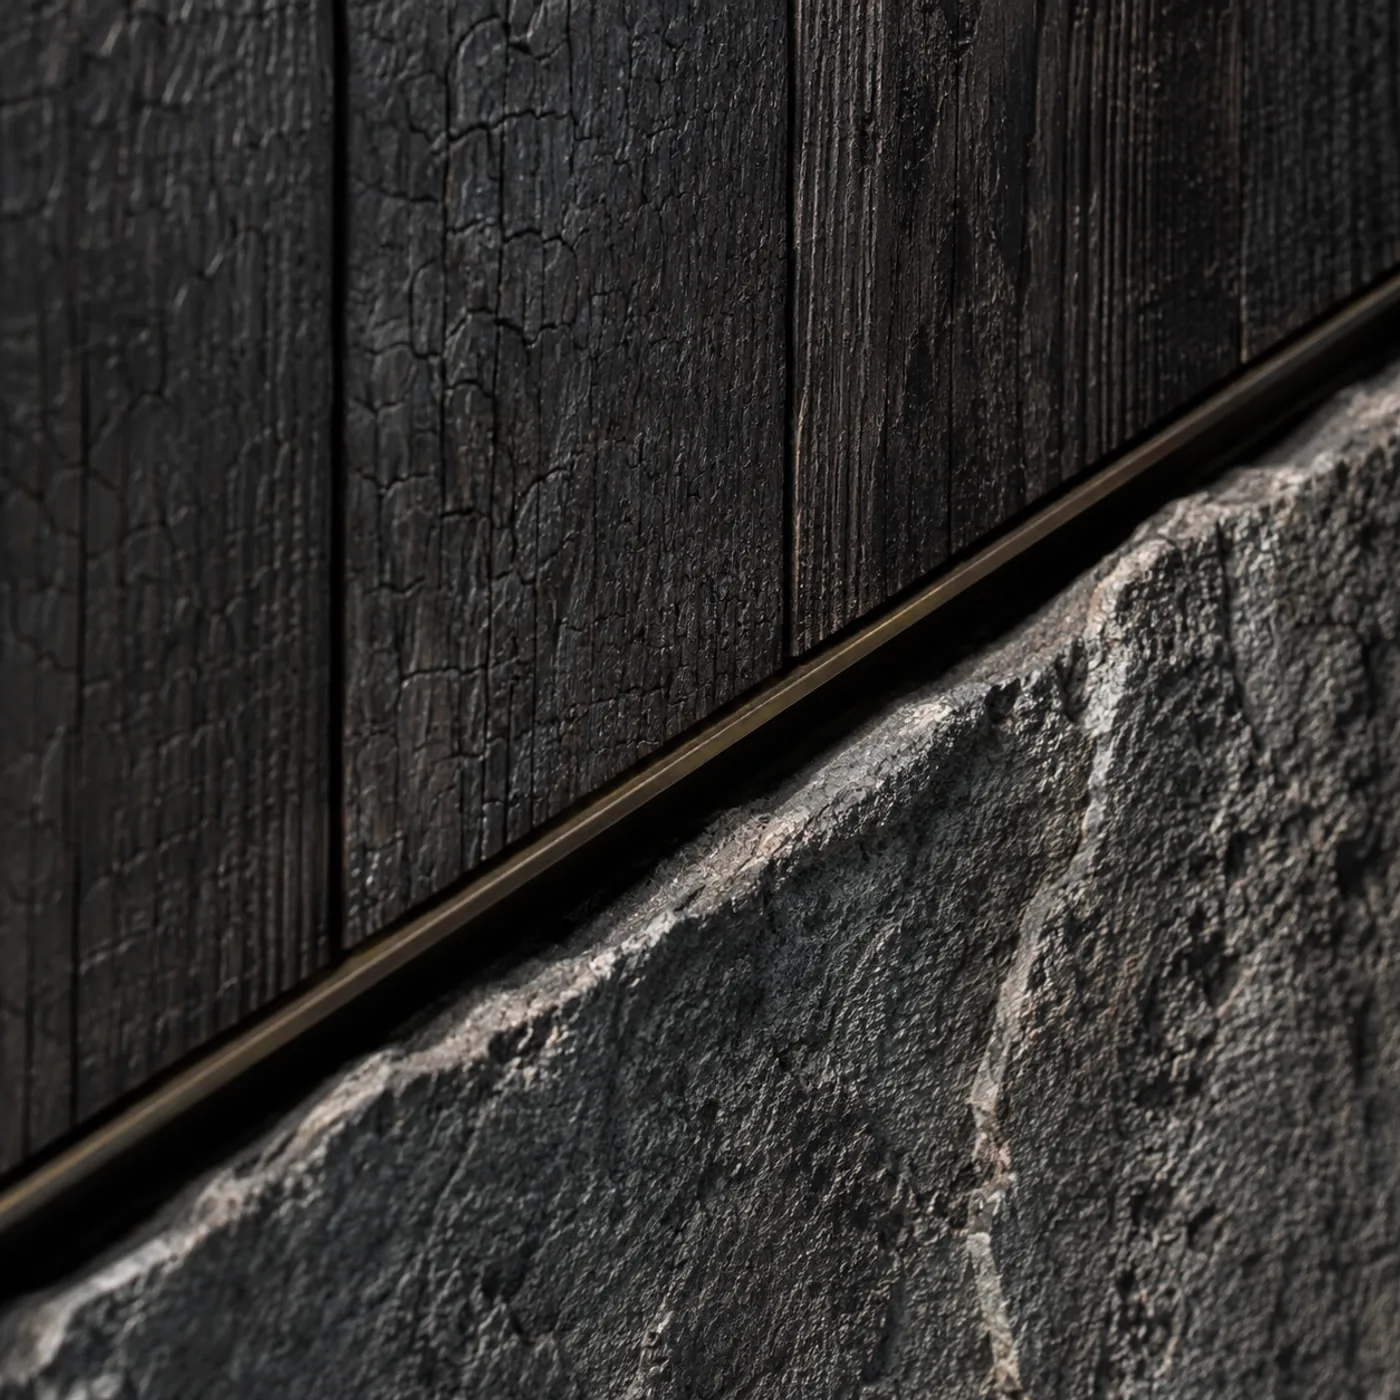
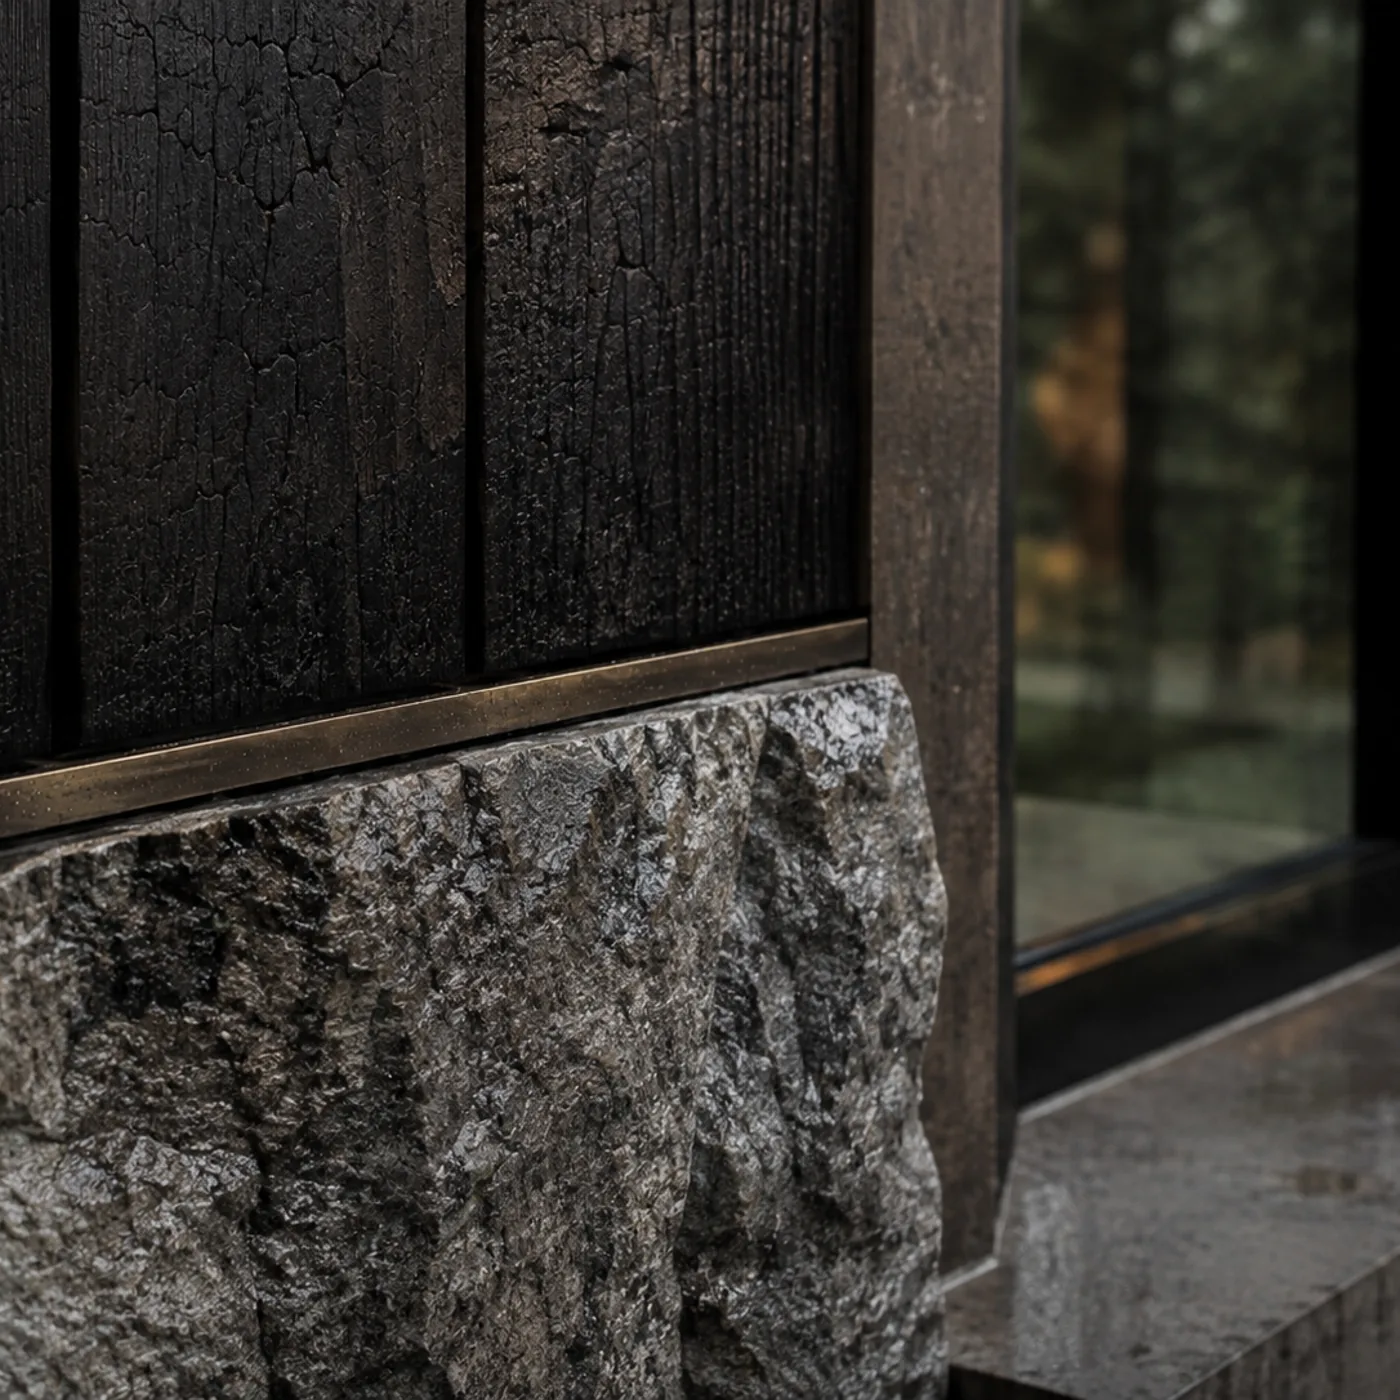
polish: 宿泊ブランドの公式サイトとして読める状態に仕上げる
制作メタ情報の露出を整理し、モバイルの実バグと写真の弱点を潰した。
ブランド・配色・書体・レイアウト基盤・Astro / デプロイ構成は変更していない。

差し替え画像（提供された 3 枚を取り込み）
- stone-villa-exterior: 2 階建て・切妻屋根・大型煙突の北米ロッジ然とした
  外観が、FOREST / MIST と同一敷地に見えなかった。平屋・深い軒・焼杉と
  石積み・石畳の新しい写真に差し替え、3 棟の建築言語を揃えた。
- cold-bath: 森の中に水風呂だけが置かれた無文脈な絵から、サウナの開口部・
  深い軒・石張りテラスが同一フレームに入る構図へ。サイトが説明している
  「サウナ → 屋外水風呂 → 外気浴が一直線に並ぶ」導線が 1 枚で伝わる。
- architecture-detail: 窓と森の映り込みが入り、素材見本ではなく建築の
  一部として読めるようになった。
  いずれも既存の比率・推奨サイズ定義のまま取り込み、他 17 枚は不変。

「架空です」の出し方を整理
出す場所を、宿を選んでいる最中ではなく「判断の前」と「答え合わせ」に寄せた。
- 削除: TOP ヒーローの CONCEPT PROJECT 帯 / 全ページのメニュー内注記 /
  ACCESS の免責 / 予約ページ冒頭の注記 / 空室リストの「デモ用の架空データ」/
  料金シミュレーターと集計欄の「架空の設定です」
- 残した開示: フッター（全 11 ページに 1 行）、予約 STEP 05 の送信直前、
  FAQ、ABOUT THIS PROJECT 全体、meta description と JSON-LD
- 削除箇所は宿泊客に役立つ情報へ置換した。メニュー内はチェックイン /
  チェックアウト / 棟数、ACCESS は冬季タイヤの案内、料金欄は入湯税の扱い。

宿泊者目線での情報整合
- 「想定」「コンセプト設定として」などの制作者語を、湯温・水温・駐車・
  決済・エリア表記から削除し、宿として言い切る文体に統一。
- 入湯税の表記を pricing.ts の定義（1 名 1 泊 150 円）と一致させた。
  従来は金額を書かずに「架空の設定」とだけ述べていた。
- エリア表記を「箱根・仙石原（想定）」から通常の住所表記に変更。

モバイルの不具合
- メニューを開くと閉じられなくなる問題を修正。全画面メニュー（z:70）が
  ヘッダー（z:60）を覆い、唯一の閉じる手段である CLOSE ボタンが
  クリックを受け取れなくなっていた。展開中はヘッダーを前面に出す。
- ギャラリーが狭い画面でカード高 354px に対し写真 182px しかなく、
  上下に約 150px の黒い余白が出ていた。原因は button の shrink-to-fit。
  狭い画面では幅を揃えて正方形に切る方式へ変更し、328×328 に拡大した。
- ヒーローの下部余白を、削除した注記のぶん詰めた。

検証
- astro check: 0 errors / 0 warnings / 0 hints
- Vitest 22 件・Playwright 27 件すべて成功
- 全 11 ページ × 390 / 768 / 1440px（横スクロール・console error・画像破損なし）
- メニュー開閉の往復、予約フロー STEP 01-05 の完走を実操作で確認
[…]

diff --git a/src/data/faq.ts b/src/data/faq.ts
@@ -61,7 +61,7 @@ export const FAQ_GROUPS: readonly FaqGroup[] = [
       },
       {
         q: '露天風呂は温泉ですか？',
-        a: 'コンセプト設定として、地下水を加温した湯としています（温泉ではありません）。掛け流しで、湯温は 40 – 42℃ の想定です。',
+        a: '地下水を加温した湯です（温泉ではありません）。掛け流しで、湯温は 40 – 42℃ に保っています。',
       },
     ],
   },
@@ -99,7 +99,7 @@ export const FAQ_GROUPS: readonly FaqGroup[] = [
       },
       {
         q: '支払い方法は？',
-        a: 'オンライン事前決済（クレジットカード）を基本とし、現地での入湯税のみ現金または QR 決済で承る想定です。',
+        a: 'オンライン事前決済（クレジットカード）を基本とし、現地での入湯税のみ現金または QR 決済で承ります。',
       },
       {
         q: 'このサイトから実際に予約できますか？',
@@ -114,11 +114,11 @@ export const FAQ_GROUPS: readonly FaqGroup[] = [
     items: [
       {
         q: '駐車場はありますか？',
-        a: '各ヴィラに 2 台分の専用駐車スペースを想定しています。予約不要・無料です。冬季はスタッドレスタイヤまたはチェーンをご準備ください。',
+        a: '各ヴィラに 2 台分の専用駐車スペースをご用意しています。予約不要・無料です。冬季はスタッドレスタイヤまたはチェーンをご準備ください。',
       },
       {
         q: '電車で行く場合は？',
-        a: '小田原駅から送迎（往復 12,000円 / 台・要予約）をご利用いただけます。所要は約 50 分です。箱根登山バスをご利用の場合は仙石案内所バス停が最寄りの想定です。',
+        a: '小田原駅から送迎（往復 12,000円 / 台・要予約）をご利用いただけます。所要は約 50 分です。箱根登山バスをご利用の場合は、仙石案内所バス停が最寄りです。',
       },
       {
         q: '荷物を先に送れますか？',

diff --git a/src/data/site.ts b/src/data/site.ts
@@ -6,15 +6,23 @@ export const SITE = {
   /** 全ページ共通の説明文の骨格 */
   description:
     '箱根・仙石原の森に、1日3組だけ。プライベートサウナと露天風呂を備えた一棟貸しのヴィラ EMBER & MOSS。',
-  /** 架空案件であることの明示（サイト内で複数箇所に使う） */
+  /**
+   * 架空案件であることの明示。
+   * 宿の世界観を途中で切らないよう、出す場所を絞っている。
+   *  - short : フッター（全ページ）
+   *  - long  : ABOUT THIS PROJECT
+   *  - booking : 予約の最終確認（送信の直前で 1 回だけ）
+   */
   conceptNotice: {
     label: 'CONCEPT PROJECT',
     short: '架空の宿泊施設を想定した自主制作です。',
     long: 'EMBER & MOSS は実在しない宿泊施設です。Web サイトの設計・デザイン・実装力を示すために制作した自主制作（コンセプトプロジェクト）であり、掲載している料金・設備・所在地はすべて架空の設定です。予約は成立しません。',
+    booking:
+      'このサイトは自主制作のデモのため、実際の予約・決済は行われません。入力内容が送信・保存されることもありません。',
   },
   /** .example は文書用に予約されたドメイン。実在の連絡先は記載しない。 */
   contactEmail: 'reservations@ember-moss.example',
-  area: '神奈川県 箱根・仙石原エリア（想定）',
+  area: '神奈川県 足柄下郡箱根町 仙石原',
   checkIn: '15:00 – 19:00',
   checkOut: '11:00',
   rooms: '全 3 棟 / 1 日 3 組',

diff --git a/src/data/sauna.ts b/src/data/sauna.ts
@@ -20,7 +20,7 @@ export const SAUNA_ELEMENTS: readonly SaunaElement[] = [
     label: 'WATER',
     labelJa: '水',
     value: '12 – 15℃',
-    body: '井戸から汲み上げた水を、循環させずに掛け流します。夏でも 15℃を超えない想定。肩まで沈めても呼吸が乱れない温度です。',
+    body: '井戸から汲み上げた水を、循環させずに掛け流します。夏でも 15℃ を超えません。肩まで沈めても呼吸が乱れない温度です。',
   },
   {
     key: 'air',
@@ -90,7 +90,7 @@ export const SAUNA_SPECS: readonly { label: string; value: string }[] = [
   { label: 'ロウリュ', value: 'セルフロウリュ可。柄杓・桶・アロマ水を常備' },
   { label: '室温', value: '90 – 100℃（薪は火の入れ方で調整可能）' },
   { label: '定員', value: '3 – 4 名（棟により異なる）' },
-  { label: '水風呂', value: '井戸水掛け流し・12 – 15℃想定。STONE / MIST は屋外' },
+  { label: '水風呂', value: '井戸水掛け流し・12 – 15℃。STONE / MIST は屋外' },
   { label: '外気浴', value: 'デッキまたはテラスにチェア。ブランケット常備' },
   { label: '利用時間', value: '15:00 – 24:00 / 翌 6:00 – 10:00' },
   { label: '料金', value: '宿泊料金に含む（FOREST の薪アップグレードのみ +8,000円 / 泊）' },

diff --git a/src/data/villas.ts b/src/data/villas.ts
@@ -54,7 +54,7 @@ export const VILLAS: readonly Villa[] = [
     area: '78㎡',
     terrace: 'ウッドデッキ 18㎡',
     bed: 'キング 1 台 + デイベッド 2 台',
-    bath: '檜の露天風呂（源泉ではない加温泉／掛け流し想定）',
+    bath: '檜の露天風呂（地下水を加温・掛け流し）',
     sauna: '電気ストーブ・セルフロウリュ（薪へのアップグレード可）',
     view: '東向き・樹冠',
     specs: [
@@ -115,7 +115,7 @@ export const VILLAS: readonly Villa[] = [
       '薪ストーブ（室内）',
       '土間のダイニング 8 席',
       'フルキッチン',
-      '屋外水風呂（通年 12–15℃想定）',
+      '屋外水風呂（通年 12–15℃）',
       'ワインセラー',
       '床暖房',
     ],

diff --git a/src/data/access.ts b/src/data/access.ts
@@ -37,7 +37,7 @@ export const ACCESS_ROUTES: readonly AccessRoute[] = [
 ] as const;
 
 export const AREA_NOTES: readonly { label: string; value: string }[] = [
-  { label: 'エリア', value: '神奈川県 箱根・仙石原（想定）' },
+  { label: 'エリア', value: '神奈川県 足柄下郡箱根町 仙石原' },
   { label: '標高', value: '約 700m' },
   { label: '棟数', value: '3 棟 / 1 日 3 組' },
   { label: 'チェックイン', value: '15:00 – 19:00' },
